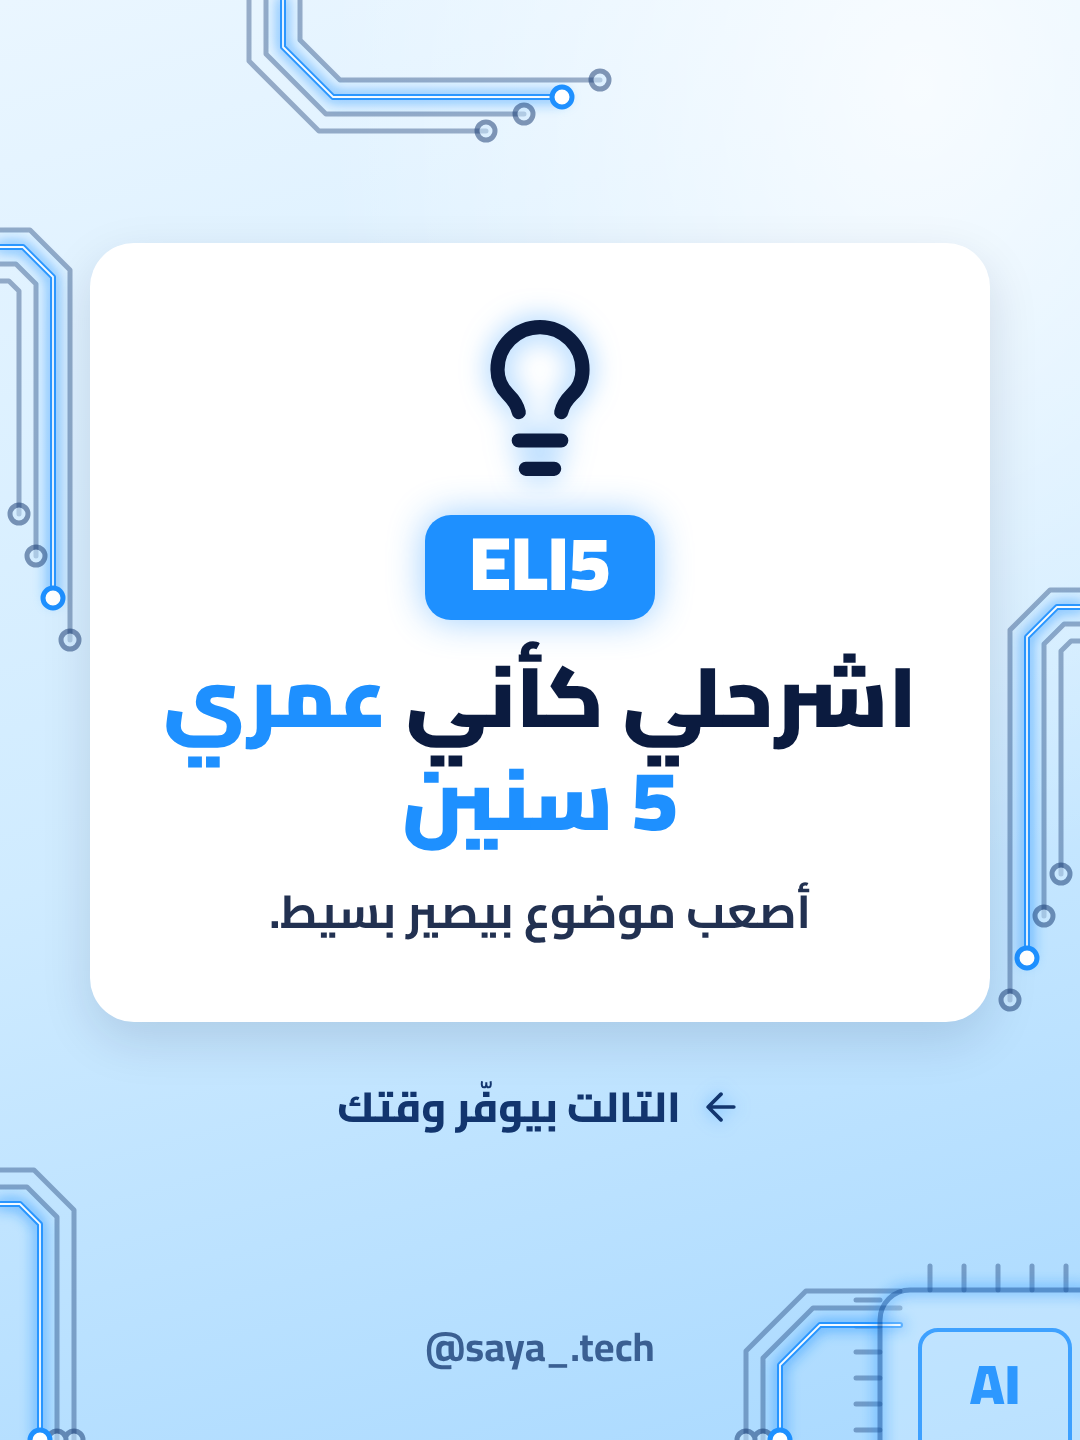
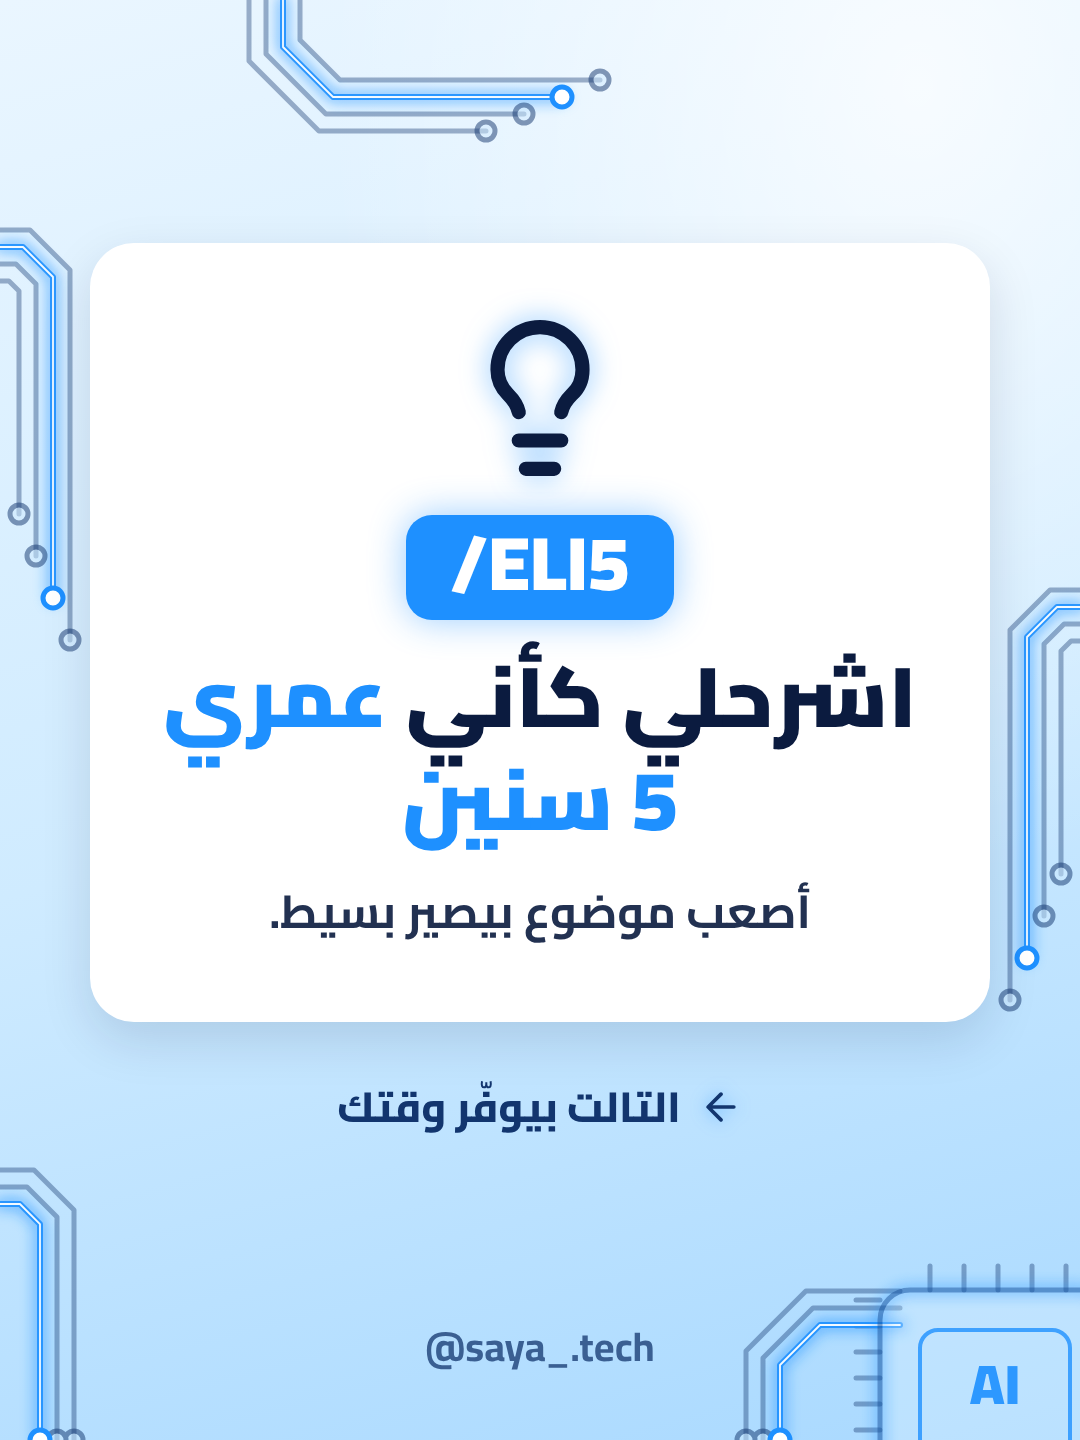
Carousel: add slash to ELI5 code
Claude-Session: https://claude.ai/code/session_01Ab9qxmL9dxNR8bHpVdm6zi

Changed region(s): [[0.4278, 0.3438, 0.6417, 0.4375], [0.3667, 0.3438, 0.4278, 0.4375]]

diff --git a/carousels/chatgpt-codes-sky/carousel.html b/carousels/chatgpt-codes-sky/carousel.html
@@ -41,7 +41,7 @@ p{font-size:46px;line-height:1.5;font-weight:700;opacity:.9}
  <rect x="920" y="1330" width="150" height="150" rx="18" stroke="#1E90FF" stroke-width="4" opacity=".8"/>
  <text x="995" y="1404" text-anchor="middle" font-family="SayaLat,sans-serif" font-weight="900" font-size="56" fill="#1E90FF" stroke="none" opacity=".9">AI</text>
 </g></svg>
-  <div class="chip" style="left:70px;top:90px;transform:rotate(-8deg)">/human</div><div class="chip" style="right:90px;top:120px;transform:rotate(6deg)">ELI5</div><div class="chip" style="left:390px;top:130px;transform:rotate(4deg)">/brief</div><div class="chip" style="right:60px;top:1090px;transform:rotate(-6deg)">/mindmap</div><div class="chip" style="left:60px;top:1100px;transform:rotate(-4deg)">/table</div><div class="chip" style="left:400px;top:1160px;transform:rotate(7deg)">/critic</div>
+  <div class="chip" style="left:70px;top:90px;transform:rotate(-8deg)">/human</div><div class="chip" style="right:90px;top:120px;transform:rotate(6deg)">/ELI5</div><div class="chip" style="left:390px;top:130px;transform:rotate(4deg)">/brief</div><div class="chip" style="right:60px;top:1090px;transform:rotate(-6deg)">/mindmap</div><div class="chip" style="left:60px;top:1100px;transform:rotate(-4deg)">/table</div><div class="chip" style="left:400px;top:1160px;transform:rotate(7deg)">/critic</div>
   <div class="mid"><svg class="ic" width="200" height="200" viewBox="0 0 24 24" fill="none" stroke="#12356E" stroke-width="1.6" stroke-linecap="round" stroke-linejoin="round"><path fill="none" stroke="currentColor" stroke-linecap="round" stroke-linejoin="round" stroke-width="2" d="M22 17a2 2 0 0 1-2 2H6.828a2 2 0 0 0-1.414.586l-2.202 2.202A.71.71 0 0 1 2 21.286V5a2 2 0 0 1 2-2h16a2 2 0 0 1 2 2zM7 11h10M7 15h6M7 7h8"/></svg><h1>6 أكواد بتغيّر <span class="hot">ردود ChatGPT</span></h1><p>كلمة وحدة قبل سؤالك</p></div>
   <div class="tease"><svg class="ar" width="44" height="44" viewBox="0 0 24 24" fill="none" stroke="#12356E" stroke-width="1.6" stroke-linecap="round" stroke-linejoin="round"><path fill="none" stroke="currentColor" stroke-linecap="round" stroke-linejoin="round" stroke-width="2" d="m12 19l-7-7l7-7m7 7H5"/></svg><span>والسر الحقيقي ورا الأكواد… بآخر شريحة</span></div>
   <div class="foot">@saya_.tech</div>
@@ -102,7 +102,7 @@ p{font-size:46px;line-height:1.5;font-weight:700;opacity:.9}
  <rect x="920" y="1330" width="150" height="150" rx="18" stroke="#1E90FF" stroke-width="4" opacity=".8"/>
  <text x="995" y="1404" text-anchor="middle" font-family="SayaLat,sans-serif" font-weight="900" font-size="56" fill="#1E90FF" stroke="none" opacity=".9">AI</text>
 </g></svg>
-  <div class="card"><svg class="ic" width="170" height="170" viewBox="0 0 24 24" fill="none" stroke="#12356E" stroke-width="1.6" stroke-linecap="round" stroke-linejoin="round"><path fill="none" stroke="currentColor" stroke-linecap="round" stroke-linejoin="round" stroke-width="2" d="M15 14c.2-1 .7-1.7 1.5-2.5c1-.9 1.5-2.2 1.5-3.5A6 6 0 0 0 6 8c0 1 .2 2.2 1.5 3.5c.7.7 1.3 1.5 1.5 2.5m0 4h6m-5 4h4"/></svg><div class="code">ELI5</div><h2>اشرحلي كأني <span class="hot">عمري 5 سنين</span></h2><p>أصعب موضوع بيصير بسيط.</p></div>
+  <div class="card"><svg class="ic" width="170" height="170" viewBox="0 0 24 24" fill="none" stroke="#12356E" stroke-width="1.6" stroke-linecap="round" stroke-linejoin="round"><path fill="none" stroke="currentColor" stroke-linecap="round" stroke-linejoin="round" stroke-width="2" d="M15 14c.2-1 .7-1.7 1.5-2.5c1-.9 1.5-2.2 1.5-3.5A6 6 0 0 0 6 8c0 1 .2 2.2 1.5 3.5c.7.7 1.3 1.5 1.5 2.5m0 4h6m-5 4h4"/></svg><div class="code">/ELI5</div><h2>اشرحلي كأني <span class="hot">عمري 5 سنين</span></h2><p>أصعب موضوع بيصير بسيط.</p></div>
   <div class="tease"><svg class="ar" width="44" height="44" viewBox="0 0 24 24" fill="none" stroke="#12356E" stroke-width="1.6" stroke-linecap="round" stroke-linejoin="round"><path fill="none" stroke="currentColor" stroke-linecap="round" stroke-linejoin="round" stroke-width="2" d="m12 19l-7-7l7-7m7 7H5"/></svg><span>التالت بيوفّر وقتك</span></div>
   <div class="foot">@saya_.tech</div>
 </section>
